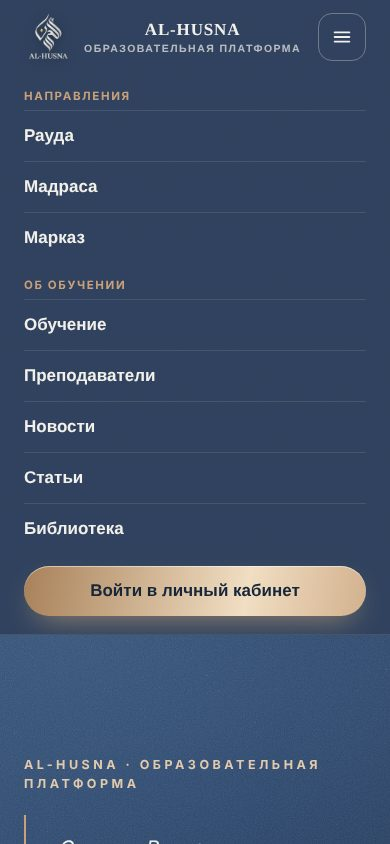
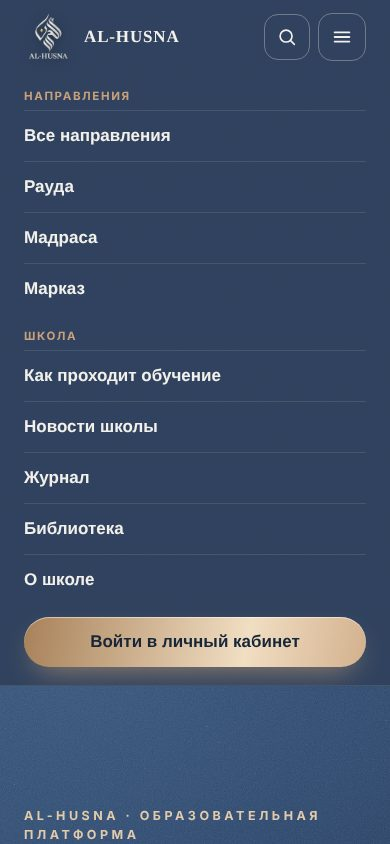
Каркас открытой части: меню, новости, журнал, библиотека, о школе, поиск (#13)
Claude-Session: https://claude.ai/code/session_01EqvTPgoU1z5mZZkkz5oj4U

diff --git a/design/style-2026-11/karkas/glavnaya/README.md b/design/style-2026-11/karkas/glavnaya/README.md
@@ -10,20 +10,26 @@
 4. Две карточки рядом: «Планируете начать обучение?» (подбор программы) и «Уже учитесь в Al-Husna?» (вход в кабинет).
 5. «Как проходит обучение?»: 4 пункта (живые занятия, от темы к теме, домашние задания, контроль знаний) + кнопка «Подробнее об обучении».
 6. Преподаватели: слова Ибн Мас‘уда, текст, галерея карточек с раскрытием «Образование».
-7. Новости, Статьи, Библиотека: текст + кнопка + место под карточки.
+7. Новости, Журнал, Библиотека: текст + кнопка + место под карточки.
 8. Финал «Пусть знания приносят пользу»: дуа (Ибн Маджа, 925) и аят 20:114.
 9. Подвал: логотип, ссылки на направления и разделы, вход в кабинет.
 
-## Меню
-Направления: Рауда · Мадраса · Марказ.
-Об обучении: Обучение · Преподаватели · Новости · Статьи · Библиотека.
-Справа: «Личный кабинет».
-На телефоне — бургер с двумя группами (см. 00-menyu-telefon.jpg).
+## Меню (правки команды 23.11)
+AL-HUSNA · Направления (выпадает: Рауда, Мадраса, Марказ) · Как проходит обучение · Новости школы · Журнал · Библиотека · О школе · поиск · Личный кабинет.
+На телефоне — бургер с группами «Направления» и «Школа» (см. 00-menyu-telefon.jpg). Каждый пункт открывает свою страницу.
+
+## Страницы открытой части
+- Направления — три направления с переходом в каждое.
+- Как проходит обучение.
+- Новости школы — фильтр по подразделениям (Вся школа, Рауда, Мадраса, Марказ), у новости рубрика: новая программа, изменения, методическая работа, развитие преподавателей, результаты, набор.
+- Журнал Al-Husna (статьи) — рубрики, у статьи автор, дата и список источников (05b-statya).
+- Библиотека — каталог: поиск, категории, автор; две части: открытая (всем) и учебная (только своим ученицам и преподавателям, после входа; 06b).
+- О школе — о школе, директор, преподаватели, контакты.
+- Поиск по платформе (иконка в шапке, 08-poisk): ищет направления, курсы, преподавателей, новости, журнал и открытую библиотеку.
 
 ## Иконки (линейные, можно заменить своими в том же смысле)
 Рауда — росток; Мадраса — карандаш; Марказ — книга; живые занятия — видеокамера; от темы к теме — ступени; домашние задания — планшет с галочкой; контроль знаний — график; подбор программы — компас; кабинет — человек; мальчики — двое людей; новости — газета; статьи — лист; библиотека — книги на полке; финал — руки в дуа.
 
-## Страницы-заготовки
-Обучение, Новости, Статьи, Библиотека — пока заготовки с местами под карточки, наполнит команда.
+Карточки новостей, статей и книг — примеры-заготовки, настоящие материалы добавит команда.
 
 Живое демо: https://claude.ai/artifact/N1xJg9xunhAfeWfv9N9JqK (Сайт школы → Главная).
